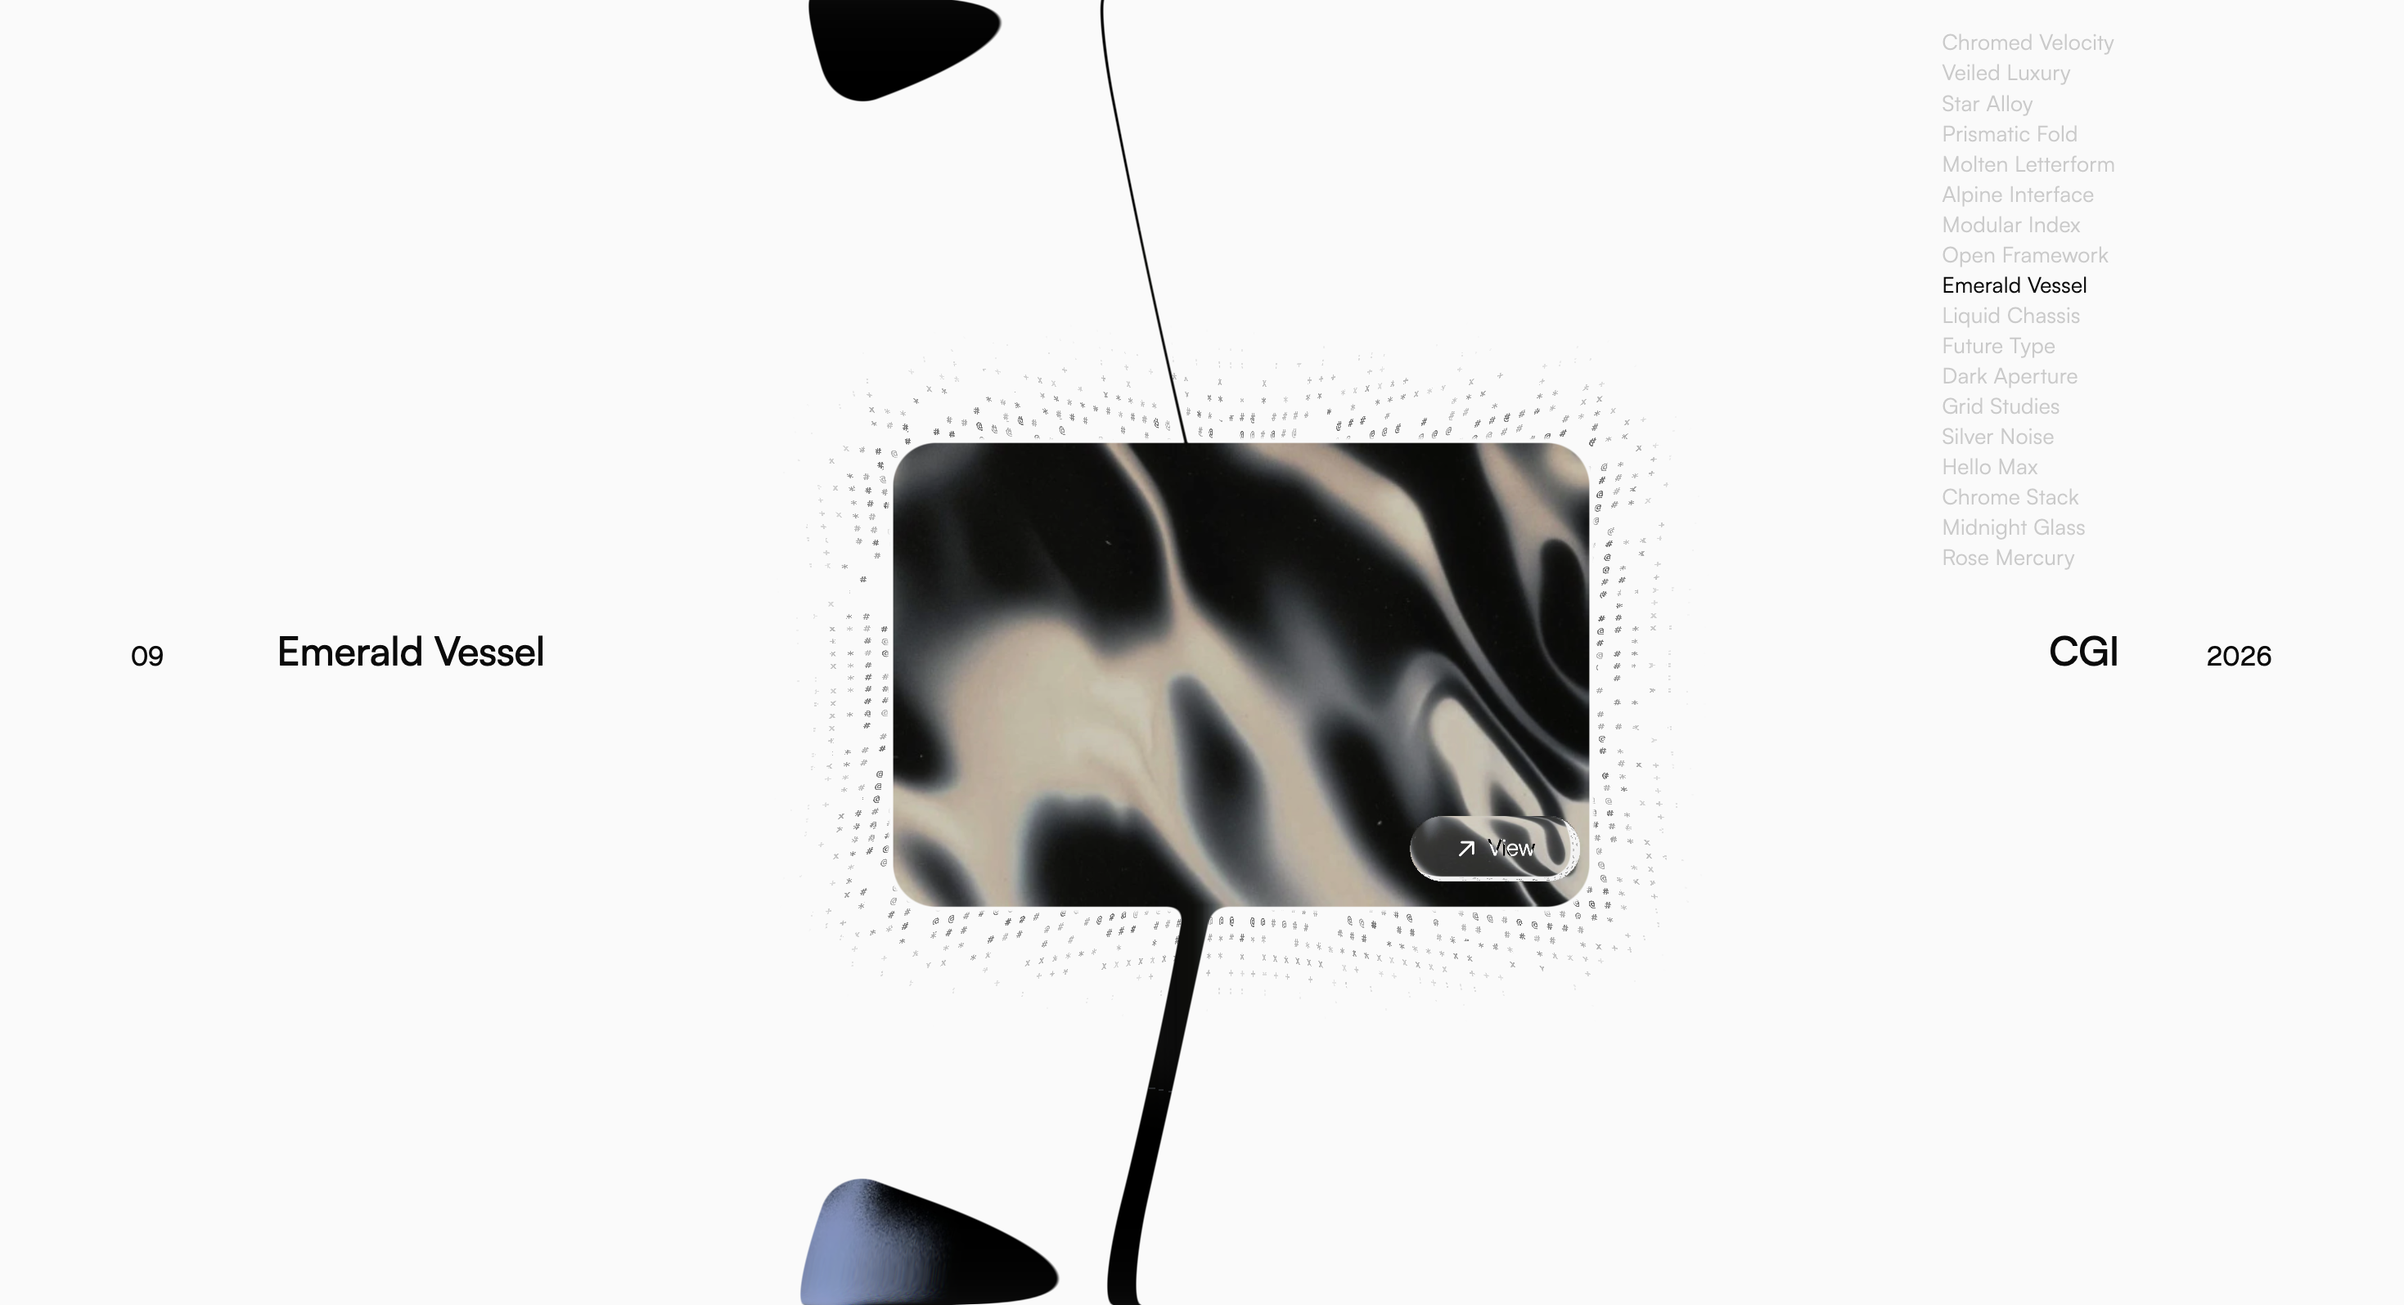
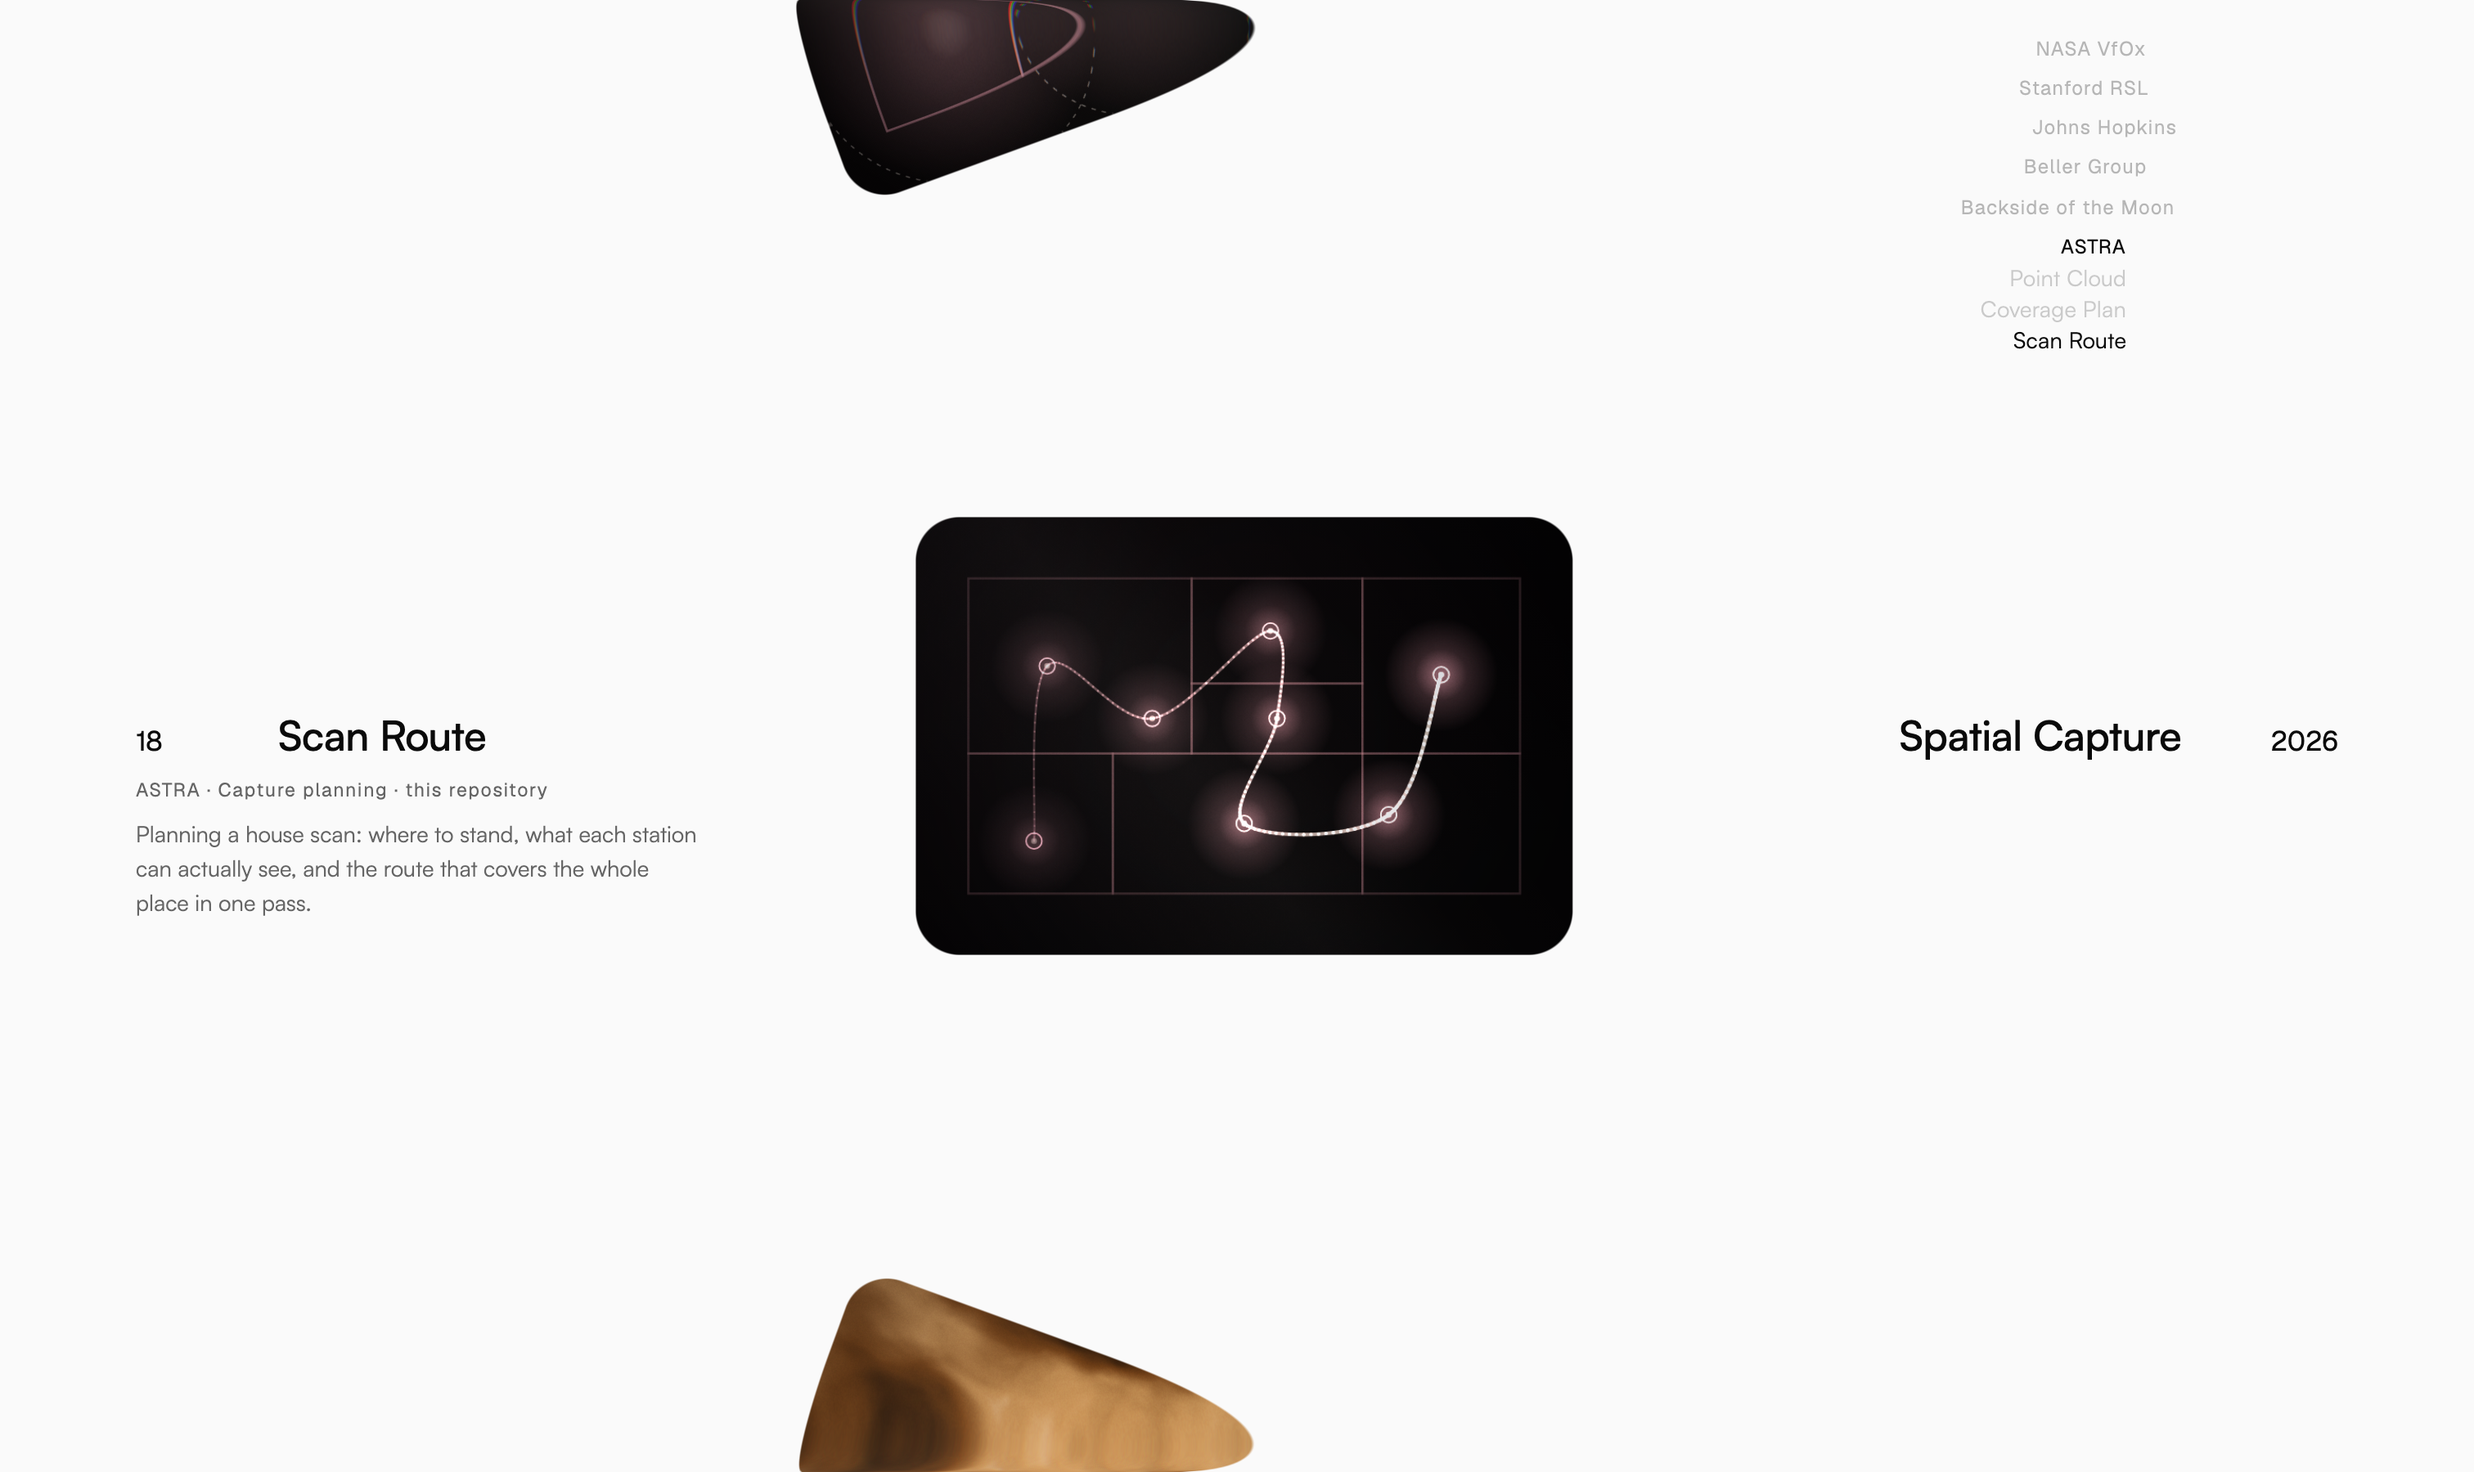
Stop the landing page introducing itself as somebody else's project
The repository is named for the person whose portfolio it is, and opened with
another project's title over a screenshot of art that is no longer in it —
the bundled Pinterest images, which were removed precisely because they were
not ours to ship. Anyone arriving at the repository saw those first, captioned
as if they were the work.

The hero is now a shot of the site as it actually stands: one card in front
with its work's note under the name, and the column showing the six works with
the one you are inside opened to its three plates. Taken at the reference
width against the built export, so it is the thing that gets published rather
than a mock of it.

The title says what this is, the live URL is above the fold, and CI has a
badge. Upstream's description of the ring moves down into a line that credits
it and says plainly that the mechanism is untouched and that most of the
document below is still theirs — which was already true and already said in
the fork note, just not before a reader had formed an impression.

Not reformatted: this file does not satisfy Prettier and did not before, so
leaving it that way keeps the diff to what changed.

diff --git a/README.md b/README.md
@@ -1,23 +1,21 @@
-# ICE WORKS
+# Tina Shen — Works
 
-> 一件以“冰的凝结、融化与流动”为视觉隐喻的实验性交互网页作品。
+> 六项物理与应用数学工作，每项三张卡片。图纹全部由代码在加载时按各自的数学画出。
 
+<https://aenorhabditis6.github.io/>
+
+[![CI](https://github.com/aenorhabditis6/aenorhabditis6.github.io/actions/workflows/ci.yml/badge.svg)](https://github.com/aenorhabditis6/aenorhabditis6.github.io/actions/workflows/ci.yml)
 [![License: MIT](https://img.shields.io/badge/代码许可-MIT-black.svg)](LICENSE)
 ![Next.js](https://img.shields.io/badge/Next.js-16-black)
 ![Three.js](https://img.shields.io/badge/Three.js-r185-black)
-![Desktop](https://img.shields.io/badge/体验-Desktop-black)
 
-ICE WORKS 将后数字极简主义、编辑式排版和生成艺术结合在一个全屏作品轮播中。页面以近白背景、黑色无衬线字体和大面积留白建立冷静秩序，再通过 WebGL 图像、ASCII 粒子、液态连接和玻璃折射打破这份秩序。
+![当前站点：Scan Route 一卡在前，左侧是所属项目的说明，右侧目录展开 ASTRA 的三张](docs/carousel.png)
 
-它既是一个作品集界面，也是一项关于数字图像如何在“颗粒—凝结—成像—融化—流动”之间转换的视觉实验。
-
-![环形作品轮播界面](docs/carousel.png)
+轮播本身来自 [ICE WORKS](https://github.com/MegD1/Ice-works-showcase)，一件以“冰的凝结、融化与流动”为视觉隐喻的交互作品：整个圆环是**一个全屏片元着色器**画的有向距离场，相邻卡片因此能互相融化、在分开时拉出蜜丝。那部分机制本分支一行未改，下面大半篇文档也是上游的。
 
 ---
 
 > **本分支的改动（Tina Shen）**
->
-> 线上：<https://aenorhabditis6.github.io/>
 >
 > 轮播机制、着色器、交互和入场动画全部沿用上游，一行未改。换掉的是卡片里的**图纹**：
 > 十八张卡片由 [`components/ring/plates.js`](components/ring/plates.js) 在加载时用
